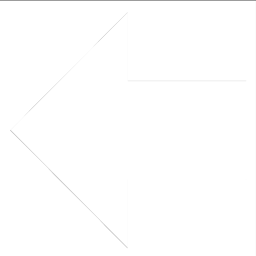
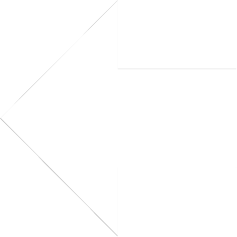
[PQMainWindow] increase size of left/right arrow, fix padding around starter message

diff --git a/qml/mainwindow.qml b/qml/mainwindow.qml
@@ -93,7 +93,7 @@ Window {
                 id: emptymessage
                 anchors.fill: parent
                 anchors.leftMargin: arrleft.x+arrleft.width+10
-                anchors.rightMargin: parent.width-arrright.x - 20
+                anchors.rightMargin: parent.width-arrright.x
                 text: em.pty+qsTranslate("other", "Open a file to begin")
                 visible: filefoldermodel.current==-1&&!filefoldermodel.filterCurrentlyActive
                 font.pointSize: 50
@@ -111,8 +111,8 @@ Window {
                 anchors.rightMargin: 10
                 opacity: 0.5
                 y: (parent.height-height)/2
-                width: 50
-                height: 50
+                width: 100
+                height: 100
                 source: "/mainwindow/rightarrow.png"
             }
 
@@ -123,8 +123,8 @@ Window {
                 anchors.leftMargin: 10
                 opacity: 0.5
                 y: (parent.height-height)/2
-                width: 50
-                height: 50
+                width: 100
+                height: 100
                 source: "/mainwindow/leftarrow.png"
             }
 
